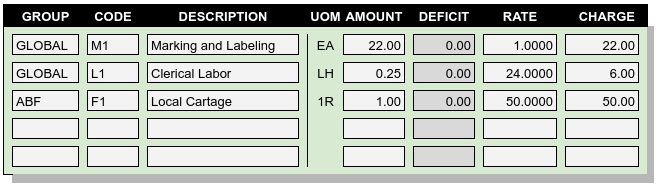
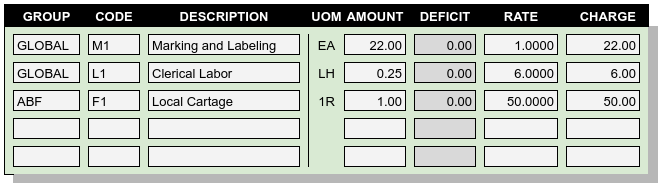
Deployed documentation

diff --git a/billing/searchindex.js b/billing/searchindex.js
@@ -1,1 +1,1 @@
-Search.setIndex({envversion:46,terms:{all:[2,1,9,3],concept:3,partial:2,illustr:[4,9],consum:9,month:5,four:[2,3],signific:9,higher:9,edu:3,follow:[1,2,3,4,5,9],merchandis:3,footnot:3,decid:2,accur:4,depend:[2,9],aug:5,leas:[1,5,3],quarterli:5,decim:[2,9],program:[2,3],present:[2,4,3],under:2,leav:[1,9],"case":[2,1,9],fax:3,sourc:1,everi:[2,5,3],parcel:3,"void":5,none:1,mechan:[2,1],fall:1,veri:1,ticket:3,level:[2,4,9],did:9,forth:2,leftov:9,reconcil:5,list:[2,1,9,5,3],item:[4,2,1,9,5],adjust:9,round:4,reimburs:3,prevent:1,fortun:9,compens:2,commerci:3,consequ:5,second:[9,5],manner:2,further:[2,1],index:0,what:[2,9],appear:[2,3],abf:2,sun:5,section:3,"while":[4,2,1,9,5],uniform:3,current:[1,5],delet:1,"new":5,ever:5,anniversari:1,elimin:[4,9],full:2,defici:9,iarw:3,biweekli:5,here:[1,2,3,4,5,9],satisfi:9,address:[9,3],along:9,becom:[1,9],modifi:5,sinc:1,valu:[2,9,5],box:9,hundredweight:[2,4],convert:2,convers:[2,9],larger:9,datetim:1,amount:[4,2,1,9],pick:[1,9,3],action:[1,5],chang:[1,9],omcr:2,transact:[4,2,1,9,3],ma1:3,apr:5,appli:[2,5,3],transit:9,md2:3,manhour:3,total:[4,2,1],establish:3,unit:[4,2,1,9],md1:3,from:[4,2,1,9,5],describ:[1,2,3,4,5,9],would:[2,1,9,5],two:[2,1,9,5],todai:[5,3],next:[1,9,5],implic:1,predict:1,call:1,recommend:2,scope:3,codifi:2,md5:3,type:[2,1,9,5],until:1,more:[2,4],desir:[1,9],detail:[2,1,9],ptional:2,relat:[9,5],enhanc:3,trail:1,expedit:3,particular:[2,3],compani:[2,3],ware:[1,2,3,4,5,9],must:[2,1,9,3],account:3,hour:9,setup:3,work:9,uniqu:1,remain:9,can:[4,2,1,9],meet:9,dec:5,control:[1,5,3],nearest:4,ma3:3,ma2:3,ma5:3,ma4:3,give:9,process:[9,5],tax:[2,3],topic:[1,9],minimum:2,slip:3,cartag:3,occur:5,alwai:[2,1,9],end:[1,5],divid:[2,9],rather:1,anoth:[1,9],ledger:3,divis:9,how:[2,1,3],low:1,fourth:5,instead:2,negoti:2,updat:1,product:[2,9],mar:5,irration:9,earlier:1,spot:3,usabl:2,reflect:9,befor:[2,1,9],date:[4,1,5],multipl:[2,9],law:3,associ:[2,1,5,3],physic:1,accessori:3,circumst:1,retail:2,practic:3,third:[9,5],counter:1,correspond:[2,9,3],inform:[2,4,9,3],preced:9,combin:[1,9],allow:[1,5],enter:[2,9,5,3],volum:4,ltl:3,order:9,over:2,move:[9,5],becaus:2,report:3,through:[2,3],equival:9,vari:[1,9],wareh:3,group:3,directli:2,labor:[2,1,9,3],whether:[2,3],pend:5,mail:3,therefor:[1,9],might:[4,9,5],easier:9,uom:[2,4,9],them:[2,1],good:3,"return":2,greater:9,thei:2,handl:[2,9,3],financi:3,dai:[1,5],band:3,half:9,andatori:2,nov:5,now:[1,9],term:[2,1,3],document:[4,9,3],payer:[2,1],edit:1,revers:5,separ:9,easili:1,compris:3,each:[4,2,1,9,3],quarter:9,side:4,trailer:3,mean:[4,9],weight:9,replac:1,individu:4,receipt:[4,3],fraction:[4,9],surcharg:[2,1,3],happen:[4,1],beyond:2,event:[1,5],special:[2,9],variabl:[2,9],shown:[2,1,9,5],safeti:3,space:[5,3],goe:3,epeat:2,crucial:2,publish:4,categori:3,shipment:[4,3],print:2,formula:[4,1,9],occurr:1,correct:9,clarifi:9,qualifi:9,advanc:1,nightmar:9,given:9,standard:[4,2,1,3],reason:2,base:[4,2,1,9,3],lump:[2,3],put:2,md3:3,uantiti:2,md6:3,md4:3,basi:[4,3],perform:[1,9,5],frequenc:1,could:[2,9],segreg:3,filter:1,subtl:9,assign:[2,9],first:[2,1,5],oper:[5,3],softwar:3,rang:[5,3],render:2,conform:[9,3],onc:[2,1,5],number:[4,1,5,3],thereof:9,restrict:2,mai:[1,2,3,4,5,9],blank:2,open:[1,5],differ:[1,9],stencil:3,sheet:3,nomin:2,data:[2,5,3],system:2,least:9,stack:3,necessarili:5,master:2,demonstr:2,similarli:[2,9],cornel:3,man:3,hundr:1,"final":9,schema:3,shell:1,option:[2,9,5],inspect:3,copi:3,specifi:1,part:2,logist:[2,3],than:[1,9],photograph:3,provid:[2,9,3],rate:3,structur:3,balanc:1,were:9,posit:9,arrang:4,deliveri:3,sai:[2,9],drayag:3,ani:[2,4,9,5],packag:[2,1,3],mon:5,expir:5,have:[4,2,1,9,5],tabl:[2,5],need:[2,9],billabl:9,"null":2,sat:5,screw:9,zero:[1,9],also:[2,1,9,5],maintain:4,build:1,which:[1,2,3,4,5,9],prepar:3,singl:[2,3],simplifi:4,begin:[1,9],unless:9,reloc:2,multipli:2,price:[2,9],previou:[4,9,5],most:[4,1],pair:1,promulg:3,examinimg:4,charg:[2,5,3],compar:9,clear:1,later:[4,5],cover:2,doe:1,sunset:5,determin:[2,1],weigh:[9,3],left:[2,4],sum:4,show:[4,2,1,9],text:3,crate:3,particularli:[2,3],freight:[1,3],mb6:3,fifth:5,consolid:4,onli:[2,1,9,3],mb7:3,tier:[2,3],explain:1,ier:2,activ:[5,3],state:[9,3],should:[2,1,9],jan:5,busi:[2,1],factor:[4,2,1,9],fuel:2,local:3,oct:5,manatori:1,express:9,contractu:2,oner:4,cannot:[2,1],increas:[2,9],recalcul:4,requir:[4,2,1,9,5],portion:2,enabl:2,organ:[2,4],yield:9,method:[2,1,3],bag:9,contain:[2,9,5],where:[4,2,1,9],view:[2,1],certif:3,set:[2,1,5,3],sep:5,displai:[2,3],see:[2,5],mandatori:2,result:[2,4,9],close:1,ingl:2,statu:1,said:9,extend:2,someth:1,label:3,figur:2,simplest:9,progress:[7,8,6],across:[2,1],altern:4,verifi:1,accord:[9,5],kei:1,numer:2,extens:9,entir:[2,1],come:5,tue:5,both:[2,1],protect:[2,1],last:[2,5],howev:9,equal:9,contract:[4,1,3],roman:3,inconsist:4,cod:3,gener:[2,9,5,3],improv:3,point:[1,9],schedul:[1,5],inher:1,period:[2,1,5],refurbish:3,yearli:5,header:1,written:1,ucc:3,suppli:1,mc6:3,mc5:3,mc4:3,mc3:3,mc2:3,mc1:3,quit:4,recur:[5,3],stretch:3,fri:5,due:5,perpetu:5,mark:3,revenu:9,trigger:[2,9],alcul:2,treat:9,certain:[1,3],monthli:5,frz:2,iwla:3,dunnag:3,suppress:2,imag:1,search:0,clearli:9,lift:3,els:9,those:[2,1,9],sound:[1,9],batch:1,defin:[2,9,5,3],calcul:3,overrid:2,abov:[1,9,5],decreas:[2,9],pack:[9,3],readi:1,non:9,warehous:[4,2,1,9,3],sever:9,proport:9,inventori:[4,2,1,9,5],receiv:[4,2,1,9,3],overpack:1,make:[4,1],belong:[2,1,9],econom:9,same:[2,4,9],proce:[1,9],largest:9,pai:3,dozen:9,complet:1,assembl:3,http:3,effect:[9,5],hand:1,fairli:2,user:[2,1],mani:1,extern:[9,3],typic:1,audit:3,lower:9,appropri:9,machineri:1,thu:5,well:2,without:[2,1,9],thi:[4,2,1,9,5],usual:1,explan:2,distanc:3,just:9,less:9,weekli:5,aspect:[2,3],yet:9,wed:5,except:[1,9],pallet:[1,3],input:1,subsequ:2,modul:0,match:[4,9],lade:[2,3],applic:2,format:4,read:1,easur:2,postag:3,five:1,know:2,characterist:2,measur:[2,3],like:[1,9],specif:[2,5],auto:1,manual:2,collect:3,benefit:9,necessari:2,either:[2,4],restack:[2,1],page:[0,1,5,3],www:3,right:4,captur:[2,1],visibl:1,some:[2,1,5],back:3,percentag:2,satisfactori:1,sampl:4,guarante:2,gross:9,avoid:9,definit:5,per:[2,1,9],summar:[4,9],track:[4,1,5],larg:4,select:1,condit:3,content:[0,2],refer:1,plu:5,run:5,slight:4,sixth:5,ration:2,usag:3,broken:[2,1],step:9,fee:9,feb:5,post:1,trustworthi:4,actual:2,materi:3,manag:[2,1],stamp:1,includ:[2,1,9],industri:3,produc:[2,1,9],routin:[2,1,9],effici:3,within:3,automat:2,three:[2,9,5,3],down:[2,9],cent:4,strip:9,wrap:3,storag:[1,2,3,4,5,9],accordingli:2,span:5,wai:[1,9],accumul:1,support:[4,9],"long":[1,3],custom:[4,2,1,9,3],avail:[2,4],start:[2,1,3],inner:9,lot:[4,1],analysi:3,head:2,form:2,offer:[2,9,3],ascend:9,criteria:1,jun:5,jul:5,link:[2,5,3],refriger:3,mb4:3,mb5:3,line:2,highest:2,categor:1,mb1:3,mb2:3,mb3:3,count:[1,9,3],absent:9,hire:3,made:[2,1],consist:[4,9],possibl:[2,1],"default":[2,1,9,3],intern:3,record:[4,2,1,3],below:9,limit:3,problem:9,remaind:9,similar:9,featur:[2,1],supervisor:3,creat:[1,9,5],request:5,dure:1,repres:9,exist:1,ship:[9,3],quantiti:2,check:[2,1,9],fill:[2,1],semiannu:5,tab:3,sequenti:1,when:[4,2,1,9,5],depth:4,reduct:9,field:2,other:[4,2,1,9,3],futur:1,varieti:9,thousand:1,warehousemen:3,cleric:[1,3],repeat:[2,5],sequenc:1,releas:1,consid:[2,1,9],weekend:1,legal:[2,3],reduc:4,descript:[2,1,3],evenli:9,eoq:9,time:[2,1,9,5,3],invoic:[4,2,1,9,3],daili:5},objtypes:{},objnames:{},filenames:["index","05_apply","03_rates","01_services","06_audits","02_calendars","07_charges","08_invoices","09_invoicing","04_extend"],titles:["3rd-Party Warehouse Services Billing","Generating or Entering Charges","Billing Rates","Service Codes","Charges Audit Reports","Calculation Calendar","Charges Transactions","Customer Invoices","Invoicing Charges","Extending Rates to Charges"],objects:{},titleterms:{mandatori:1,code:[4,3],identifi:2,consider:2,enter:1,process:1,appli:9,global:2,share:2,indic:0,report:[4,2,1],rate:[2,9],minimum:9,sec:2,tabl:[0,9],calendar:[1,5],servic:[0,3],setup:2,privat:2,group:2,recur:1,quot:2,databas:5,transact:6,activ:2,detail:4,custom:7,note:2,favor:9,deficit:9,basic:9,scope:2,introduct:3,singl:9,schema:5,product:1,regard:2,option:1,extend:9,numer:9,gener:1,ration:9,"break":9,part:9,tier:9,line:9,quotat:2,charg:[4,1,8,9,6],addit:2,audit:[4,9],measur:9,account:2,repeat:1,"3rd":0,column:3,entri:[2,4,3],straight:9,bill:[0,2,3],descript:4,displai:9,rule:2,quantiti:9,properti:2,calcul:[4,2,1,9,5],exampl:[2,9,3],parti:0,warehous:0,invoic:[7,8],irrat:9,section:[2,9],summari:4}})
+Search.setIndex({envversion:46,terms:{all:[2,1,9,3],concept:3,partial:2,illustr:[4,9],consum:9,month:5,four:[2,3],signific:9,higher:9,edu:3,follow:[1,2,3,4,5,9],merchandis:3,footnot:3,decid:2,accur:4,depend:[2,9],aug:5,leas:[1,5,3],quarterli:5,decim:[2,9],program:[2,3],present:[2,4,3],under:2,leav:[1,9],"case":[2,1,9],fax:3,sourc:1,everi:[2,5,3],parcel:3,"void":5,none:1,mechan:[2,1],fall:1,veri:1,ticket:3,level:[2,4,9],did:9,forth:2,leftov:9,reconcil:5,list:[2,1,9,5,3],item:[4,2,1,9,5],adjust:9,round:4,reimburs:3,prevent:1,fortun:9,compens:2,commerci:3,consequ:5,second:[9,5],manner:2,further:[2,1],index:0,what:[2,9],appear:[2,3],abf:2,sun:5,section:3,"while":[4,2,1,9,5],uniform:3,current:[1,5],delet:1,"new":5,ever:5,anniversari:1,elimin:[4,9],full:2,defici:9,iarw:3,biweekli:5,here:[1,2,3,4,5,9],satisfi:9,address:[9,3],along:9,becom:[1,9],modifi:5,sinc:1,valu:[2,9,5],box:9,hundredweight:[2,4],convert:2,convers:[2,9],larger:9,datetim:1,amount:[4,2,1,9],pick:[1,9,3],action:[1,5],chang:[1,9],omcr:2,transact:[4,2,1,9,3],ma1:3,apr:5,appli:[2,5,3],transit:9,md2:3,manhour:3,total:[4,2,1],establish:3,unit:[4,2,1,9],md1:3,from:[4,2,1,9,5],describ:[1,2,3,4,5,9],would:[2,1,9,5],two:[2,1,9,5],todai:[5,3],next:[1,9,5],implic:1,predict:1,call:1,recommend:2,scope:3,codifi:2,md5:3,type:[2,1,9,5],until:1,more:[2,4],desir:[1,9],detail:[2,1,9],ptional:2,relat:[9,5],enhanc:3,trail:1,expedit:3,particular:[2,3],compani:[2,3],ware:[1,2,3,4,5,9],must:[2,1,9,3],account:3,hour:[1,9],setup:3,work:9,uniqu:1,remain:9,can:[4,2,1,9],meet:9,dec:5,control:[1,5,3],nearest:4,ma3:3,ma2:3,ma5:3,ma4:3,give:9,process:[9,5],tax:[2,3],topic:[1,9],minimum:2,slip:3,cartag:3,occur:5,alwai:[2,1,9],end:[1,5],divid:[2,9],rather:1,anoth:[1,9],ledger:3,divis:9,how:[2,1,3],low:1,fourth:5,instead:2,negoti:2,updat:1,product:[2,9],mar:5,irration:9,earlier:1,spot:3,usabl:2,reflect:9,befor:[2,1,9],date:[4,1,5],multipl:[2,9],law:3,associ:[2,1,5,3],physic:1,accessori:3,circumst:1,retail:2,practic:3,third:[9,5],counter:1,correspond:[2,9,3],inform:[2,4,9,3],preced:9,combin:[1,9],allow:[1,5],enter:[2,9,5,3],volum:4,ltl:3,order:9,over:2,move:[9,5],becaus:2,report:3,through:[2,3],equival:9,vari:[1,9],wareh:3,group:3,directli:2,labor:[2,1,9,3],whether:[2,3],pend:5,mail:3,therefor:[1,9],might:[4,9,5],easier:9,uom:[2,4,9],them:[2,1],good:3,"return":2,greater:9,thei:2,handl:[2,9,3],financi:3,dai:[1,5],band:3,half:9,andatori:2,nov:5,now:[1,9],term:[2,1,3],document:[4,9,3],payer:[2,1],edit:1,revers:5,separ:9,easili:1,compris:3,each:[4,2,1,9,3],quarter:[1,9],side:4,trailer:3,mean:[4,9],weight:9,replac:1,individu:4,receipt:[4,3],fraction:[4,9],surcharg:[2,1,3],happen:[4,1],beyond:2,event:[1,5],special:[2,9],variabl:[2,9],shown:[2,1,9,5],safeti:3,space:[5,3],goe:3,epeat:2,crucial:2,publish:4,categori:3,shipment:[4,3],print:2,formula:[4,1,9],occurr:1,correct:9,clarifi:9,qualifi:9,advanc:1,nightmar:9,given:9,standard:[4,2,1,3],reason:2,base:[4,2,1,9,3],lump:[2,3],put:2,md3:3,uantiti:2,md6:3,md4:3,basi:[4,3],perform:[1,9,5],frequenc:1,could:[2,9],segreg:3,filter:1,subtl:9,assign:[2,9],first:[2,1,5],oper:[5,3],softwar:3,rang:[5,3],render:2,conform:[9,3],onc:[2,1,5],number:[4,1,5,3],thereof:9,restrict:2,mai:[1,2,3,4,5,9],blank:2,open:[1,5],differ:[1,9],stencil:3,sheet:3,nomin:2,data:[2,5,3],system:2,least:9,stack:3,necessarili:5,master:2,demonstr:2,similarli:[2,9],cornel:3,man:3,hundr:1,"final":9,schema:3,shell:1,option:[2,9,5],inspect:3,copi:3,specifi:1,part:2,logist:[2,3],than:[1,9],photograph:3,provid:[2,9,3],rate:3,structur:3,balanc:1,were:9,posit:9,arrang:4,deliveri:3,sai:[2,9],drayag:3,ani:[2,4,9,5],packag:[2,1,3],mon:5,expir:5,have:[4,2,1,9,5],tabl:[2,5],need:[2,9],billabl:9,seem:1,"null":2,sat:5,screw:9,zero:[1,9],also:[2,1,9,5],maintain:4,build:1,which:[1,2,3,4,5,9],prepar:3,singl:[2,3],simplifi:4,begin:[1,9],unless:9,reloc:2,multipli:2,price:[2,9],previou:[4,9,5],most:[4,1],pair:1,promulg:3,examinimg:4,charg:[2,5,3],compar:9,clear:1,later:[4,5],cover:2,doe:1,sunset:5,determin:[2,1],weigh:[9,3],left:[2,4],sum:4,show:[4,2,1,9],text:3,crate:3,particularli:[2,3],freight:[1,3],mb6:3,fifth:5,consolid:4,onli:[2,1,9,3],mb7:3,tier:[2,3],explain:1,ier:2,activ:[5,3],state:[9,3],should:[2,1,9],jan:5,busi:[2,1],factor:[4,2,1,9],fuel:2,local:3,oct:5,manatori:1,express:9,contractu:2,oner:4,cannot:[2,1],increas:[2,9],recalcul:4,requir:[4,2,1,9,5],portion:2,enabl:2,organ:[2,4],yield:9,method:[2,1,3],bag:9,contain:[2,9,5],where:[4,2,1,9],view:[2,1],certif:3,set:[2,1,5,3],sep:5,displai:[2,3],see:[2,1,5],mandatori:2,result:[2,4,9],close:1,ingl:2,statu:1,said:9,extend:2,correctli:1,someth:1,label:3,figur:2,simplest:9,progress:[7,8,6],across:[2,1],altern:4,verifi:1,accord:[9,5],kei:1,numer:2,extens:9,entir:[2,1],come:5,tue:5,both:[2,1],protect:[2,1],last:[2,5],howev:9,equal:9,contract:[4,1,3],roman:3,inconsist:4,cod:3,gener:[2,9,5,3],improv:3,point:[1,9],schedul:[1,5],inher:1,period:[2,1,5],refurbish:3,yearli:5,header:1,written:1,ucc:3,suppli:1,mc6:3,mc5:3,mc4:3,mc3:3,mc2:3,mc1:3,quit:4,recur:[5,3],stretch:3,fri:5,due:5,perpetu:5,mark:3,revenu:9,trigger:[2,9],alcul:2,treat:9,certain:[1,3],monthli:5,frz:2,iwla:3,dunnag:3,suppress:2,imag:1,search:0,clearli:9,lift:3,els:9,those:[2,1,9],sound:[1,9],batch:1,defin:[2,9,5,3],calcul:3,overrid:2,abov:[1,9,5],decreas:[2,9],pack:[9,3],readi:1,non:9,warehous:[4,2,1,9,3],sever:9,proport:9,inventori:[4,2,1,9,5],receiv:[4,2,1,9,3],overpack:1,make:[4,1],belong:[2,1,9],econom:9,same:[2,4,9],proce:[1,9],largest:9,pai:3,dozen:9,complet:1,assembl:3,http:3,effect:[9,5],hand:1,fairli:2,user:[2,1],mani:1,extern:[9,3],typic:1,audit:3,lower:9,appropri:9,machineri:1,thu:5,well:2,without:[2,1,9],thi:[4,2,1,9,5],usual:1,explan:2,distanc:3,just:9,less:9,weekli:5,aspect:[2,3],yet:9,wed:5,except:[1,9],pallet:[1,3],input:1,subsequ:2,modul:0,match:[4,9],lade:[2,3],applic:2,format:4,read:1,easur:2,postag:3,five:1,know:2,characterist:2,measur:[2,3],like:[1,9],specif:[2,5],auto:1,manual:2,collect:3,benefit:9,necessari:2,either:[2,4],restack:[2,1],page:[0,1,5,3],www:3,right:4,captur:[2,1],visibl:1,some:[2,1,5],back:3,percentag:2,satisfactori:1,sampl:4,guarante:2,gross:9,avoid:9,definit:5,per:[2,1,9],summar:[4,9],track:[4,1,5],larg:4,select:1,condit:3,content:[0,2],refer:1,plu:5,run:5,slight:4,sixth:5,ration:2,usag:3,broken:[2,1],step:9,fee:9,feb:5,post:1,trustworthi:4,actual:2,materi:3,manag:[2,1],stamp:1,includ:[2,1,9],industri:3,produc:[2,1,9],routin:[2,1,9],effici:3,within:3,automat:2,three:[2,9,5,3],down:[2,9],cent:4,strip:9,wrap:3,storag:[1,2,3,4,5,9],accordingli:2,span:5,wai:[1,9],accumul:1,support:[4,9],"long":[1,3],custom:[4,2,1,9,3],avail:[2,4],start:[2,1,3],inner:9,lot:[4,1],analysi:3,head:2,form:2,offer:[2,9,3],ascend:9,criteria:1,jun:5,jul:5,link:[2,5,3],refriger:3,mb4:3,mb5:3,line:2,highest:2,categor:1,mb1:3,mb2:3,mb3:3,count:[1,9,3],absent:9,hire:3,made:[2,1],consist:[4,9],possibl:[2,1],"default":[2,1,9,3],intern:3,record:[4,2,1,3],below:9,limit:3,problem:9,remaind:9,similar:9,featur:[2,1],supervisor:3,creat:[1,9,5],request:5,dure:1,repres:9,exist:1,ship:[9,3],quantiti:2,check:[2,1,9],fill:[2,1],semiannu:5,tab:3,sequenti:1,when:[4,2,1,9,5],depth:4,reduct:9,field:2,other:[4,2,1,9,3],futur:1,varieti:9,thousand:1,warehousemen:3,cleric:[1,3],repeat:[2,5],sequenc:1,releas:1,consid:[2,1,9],weekend:1,legal:[2,3],reduc:4,descript:[2,1,3],evenli:9,eoq:9,time:[2,1,9,5,3],invoic:[4,2,1,9,3],daili:5},objtypes:{},objnames:{},filenames:["index","05_apply","03_rates","01_services","06_audits","02_calendars","07_charges","08_invoices","09_invoicing","04_extend"],titles:["3rd-Party Warehouse Services Billing","Generating or Entering Charges","Billing Rates","Service Codes","Charges Audit Reports","Calculation Calendar","Charges Transactions","Customer Invoices","Invoicing Charges","Extending Rates to Charges"],objects:{},titleterms:{mandatori:1,code:[4,3],identifi:2,consider:2,enter:1,process:1,appli:9,global:2,share:2,indic:0,report:[4,2,1],rate:[2,9],minimum:9,sec:2,tabl:[0,9],calendar:[1,5],servic:[0,3],setup:2,privat:2,group:2,recur:1,quot:2,databas:5,transact:6,activ:2,detail:4,custom:7,note:2,favor:9,deficit:9,basic:9,scope:2,introduct:3,singl:9,schema:5,product:1,regard:2,option:1,extend:9,numer:9,gener:1,ration:9,"break":9,part:9,tier:9,line:9,quotat:2,charg:[4,1,8,9,6],addit:2,audit:[4,9],measur:9,account:2,repeat:1,"3rd":0,column:3,entri:[2,4,3],straight:9,bill:[0,2,3],descript:4,displai:9,rule:2,quantiti:9,properti:2,calcul:[4,2,1,9,5],exampl:[2,9,3],parti:0,warehous:0,invoic:[7,8],irrat:9,section:[2,9],summari:4}})

diff --git a/billing/05_apply.html b/billing/05_apply.html
@@ -134,8 +134,16 @@ the mandatory code <strong>MB</strong> line, but the page becomes view-only as s
 <p class="first admonition-title">Note</p>
 <ul class="last simple">
 <li>The deficit column is visible but entries are calculated and protected</li>
-<li>Factor and Surcharge entries used in rate formulas are not shown</li>
+<li>Quantity, Factor, Minimum, and Surcharge entries used in rate formulas
+are not shown</li>
 </ul>
+</div>
+<div class="admonition tip">
+<p class="first admonition-title">Tip</p>
+<p class="last">The <em>Clerical Labor</em> seems not to extend correctly, as the <strong>Amount</strong> times
+the <strong>Rate</strong> would be $1.50. But for this rate, the quantity is not per each
+hour, but per each <em>Quarter-hour</em>. See the topic on <a class="reference internal" href="04_extend.html#rate-extend"><em>Extending Rates to Charges</em></a> for
+details on how charges are calculated.</p>
 </div>
 </div>
 <div class="section" id="generated-charges">
